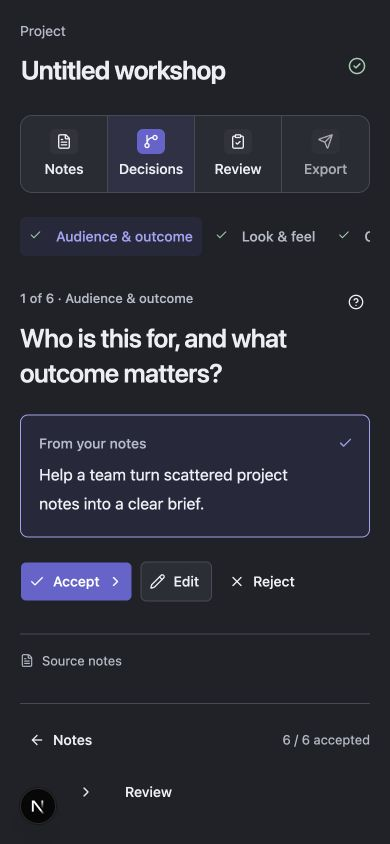
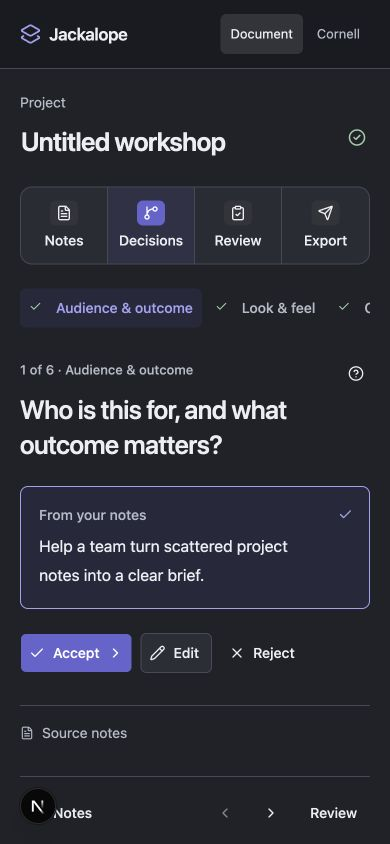
Record visual correction evidence and populated phone verification

diff --git a/docs/interface-review/visual-correction.md b/docs/interface-review/visual-correction.md
@@ -43,3 +43,9 @@ This walkthrough exposed an existing navigation problem: following a bottom-of-p
 Also removed duplicated category headings from presentation only. The helper strips a leading heading only when it repeats the displayed category; meaningful source headings, including negative qualifiers, remain visible. Stored claims and Markdown export remain unchanged. A regression test covers source preservation and the meaningful-heading boundary.
 
 Independent visual inspection of the six initial correction artifacts found meaningful hierarchy/readability improvement and no material visual defect. It correctly withheld a complete phone conclusion until the populated-phone artifacts existed. The added screenshots and runtime checks close that specific gap; they do not establish blanket design acceptance or accessibility compliance.
+
+## Review closure for this iteration
+
+The refreshed phone decision artifact was inspected independently after its footer correction. No material findings remained in the targeted visual/requirements review or the separate standards review. This is evidence against the stated criteria; it is not Kyle's design acceptance. The earlier functional verification must still not be used as a substitute for visual judgment.
+
+The original empty workshop was restored after synthetic runtime tests. No real company positioning or project decisions were approved. The original Vercel deployment remains unchanged; this iteration updates the same local preview and draft pull request.
